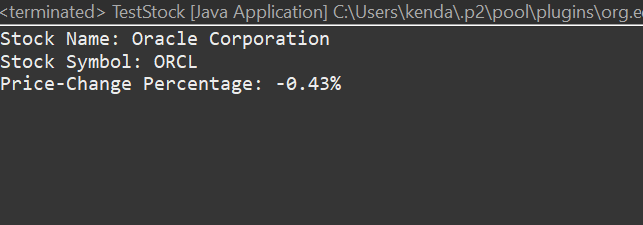
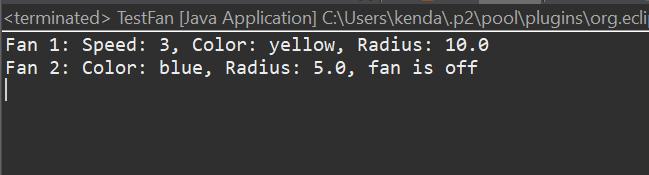
Add files via upload

Changed region(s): [[0.0, 0.0, 1.0, 0.4571], [0.0, 0.4571, 0.0311, 0.5714]]

diff --git a/TestFan.java b/TestFan.java
@@ -1,0 +1,10 @@
+package cis245homework1;
+
+public class TestFan {
+
+	public static void main(String[] args) {
+		// TODO Auto-generated method stub
+
+	}
+
+}

diff --git a/Fan.java b/Fan.java
@@ -1,0 +1,5 @@
+package cis245homework1;
+
+public class Fan {
+
+}
